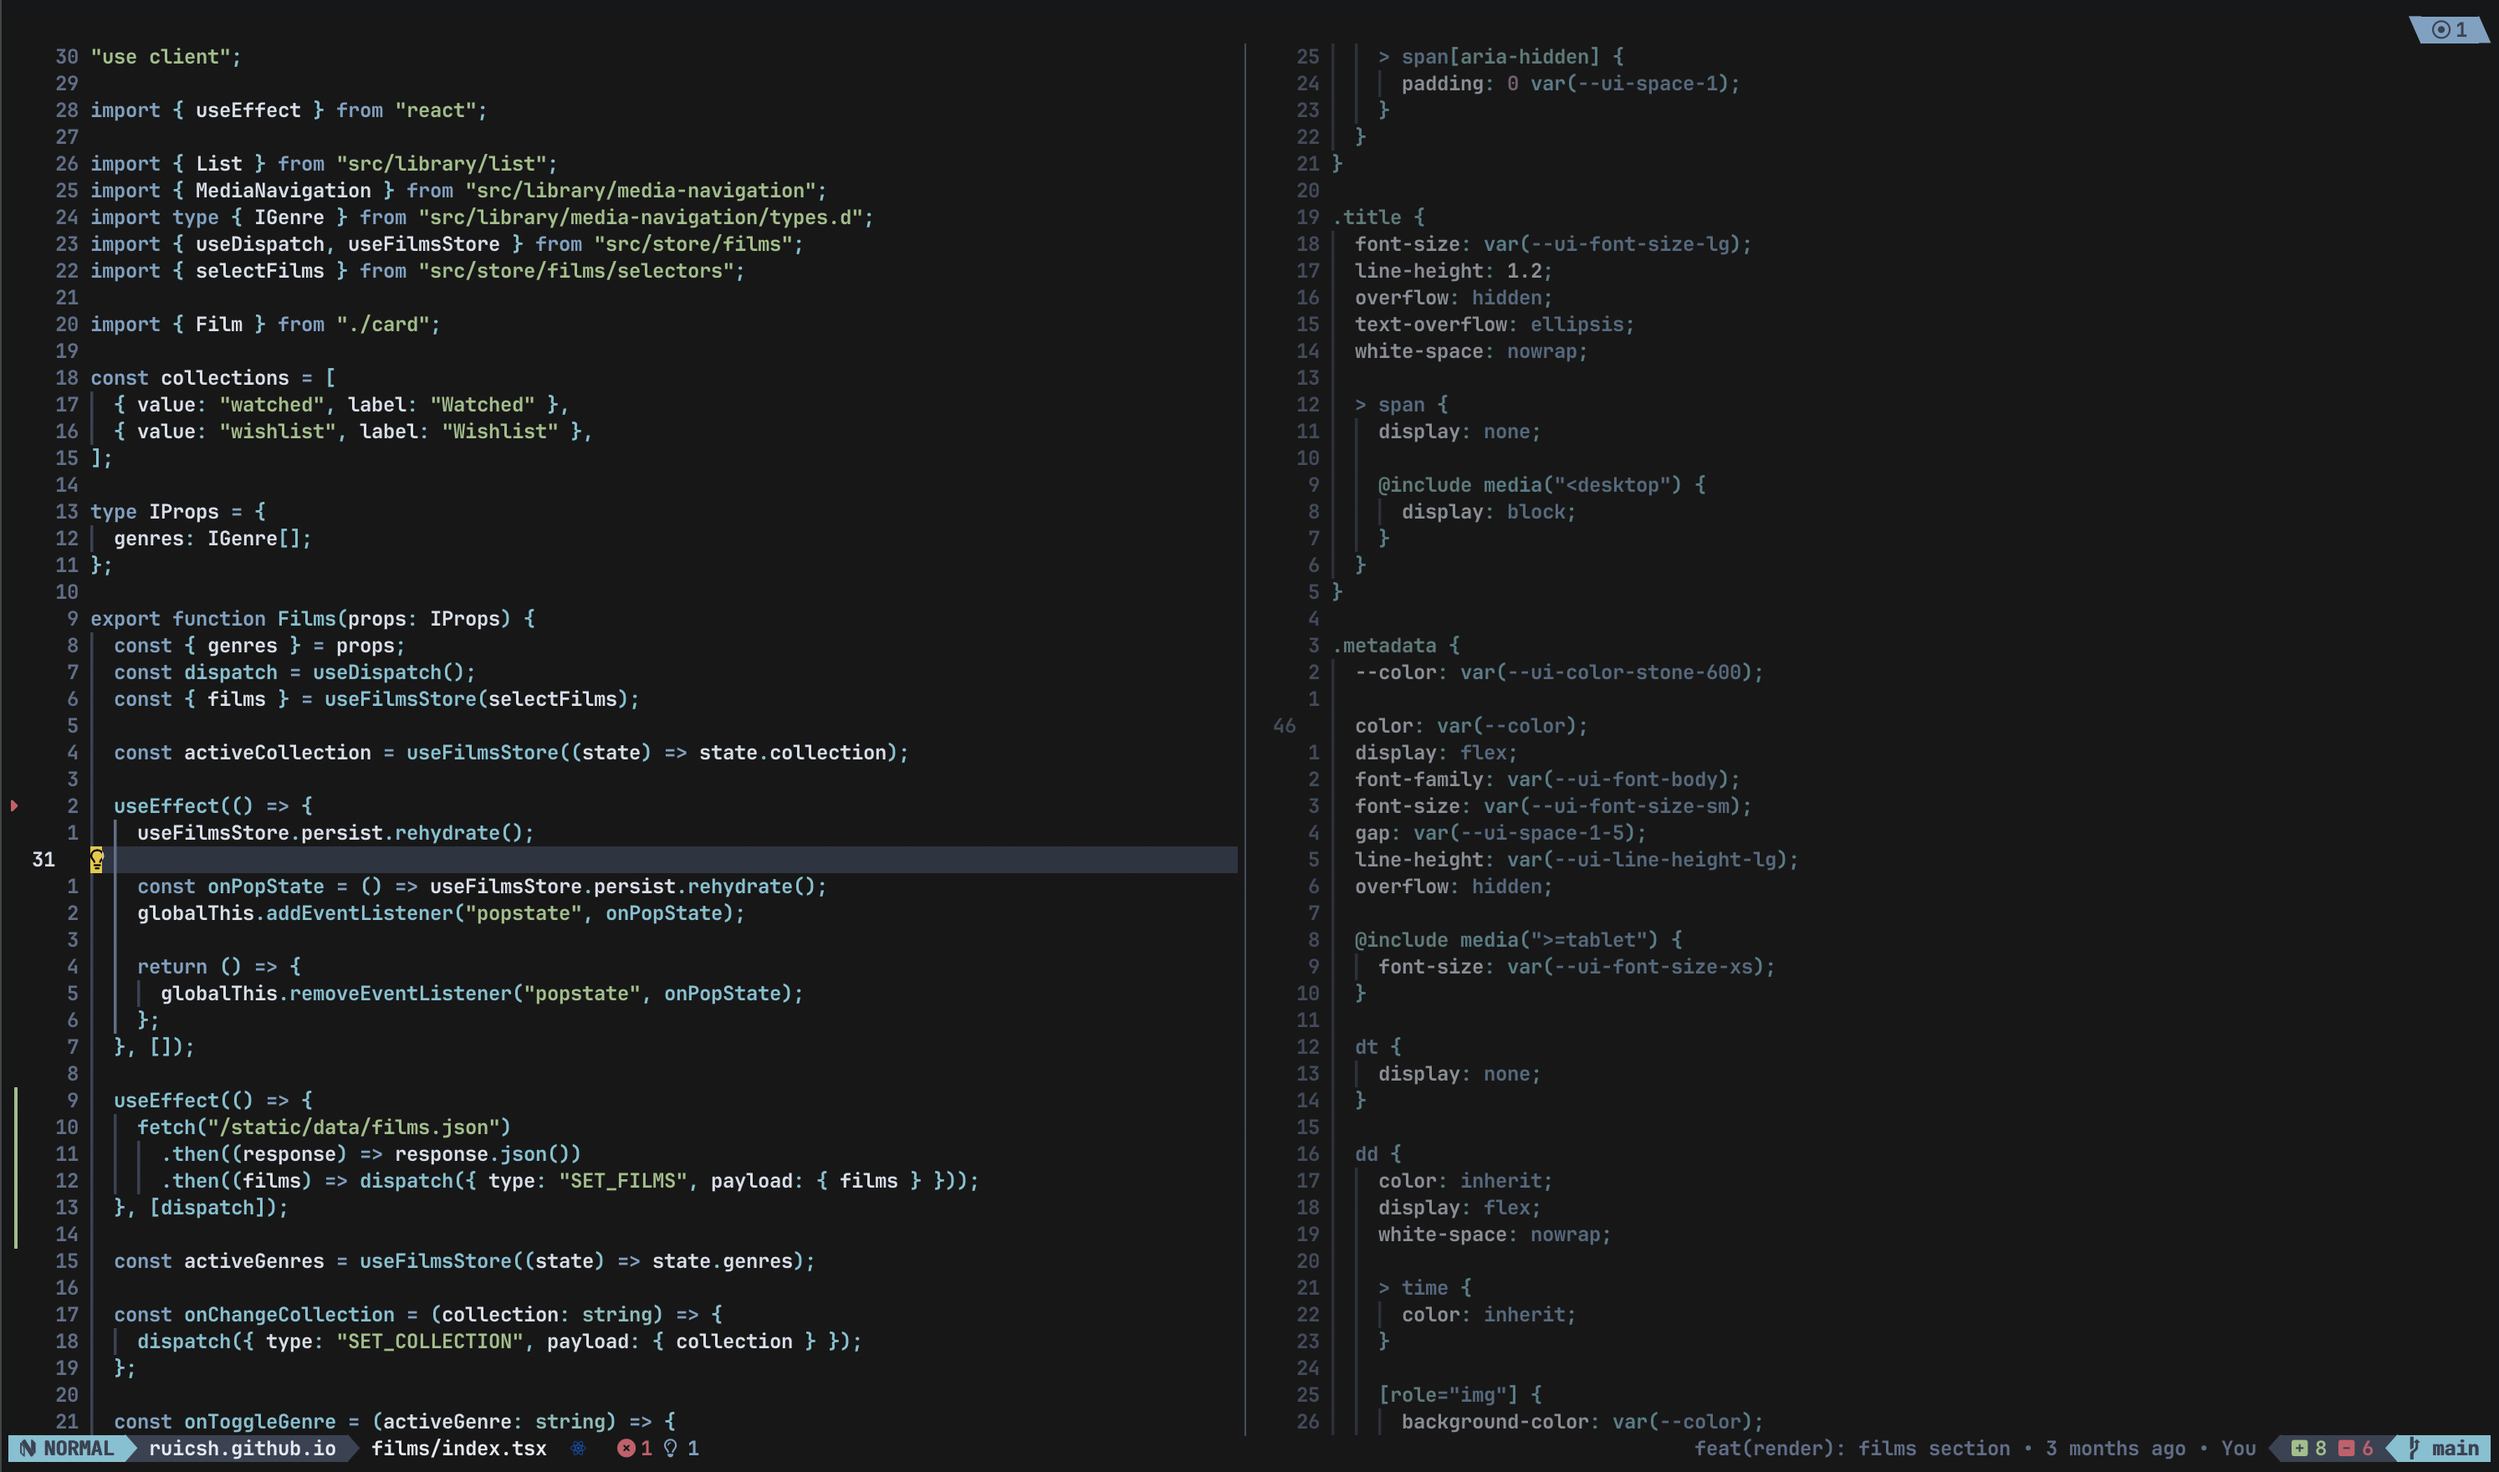
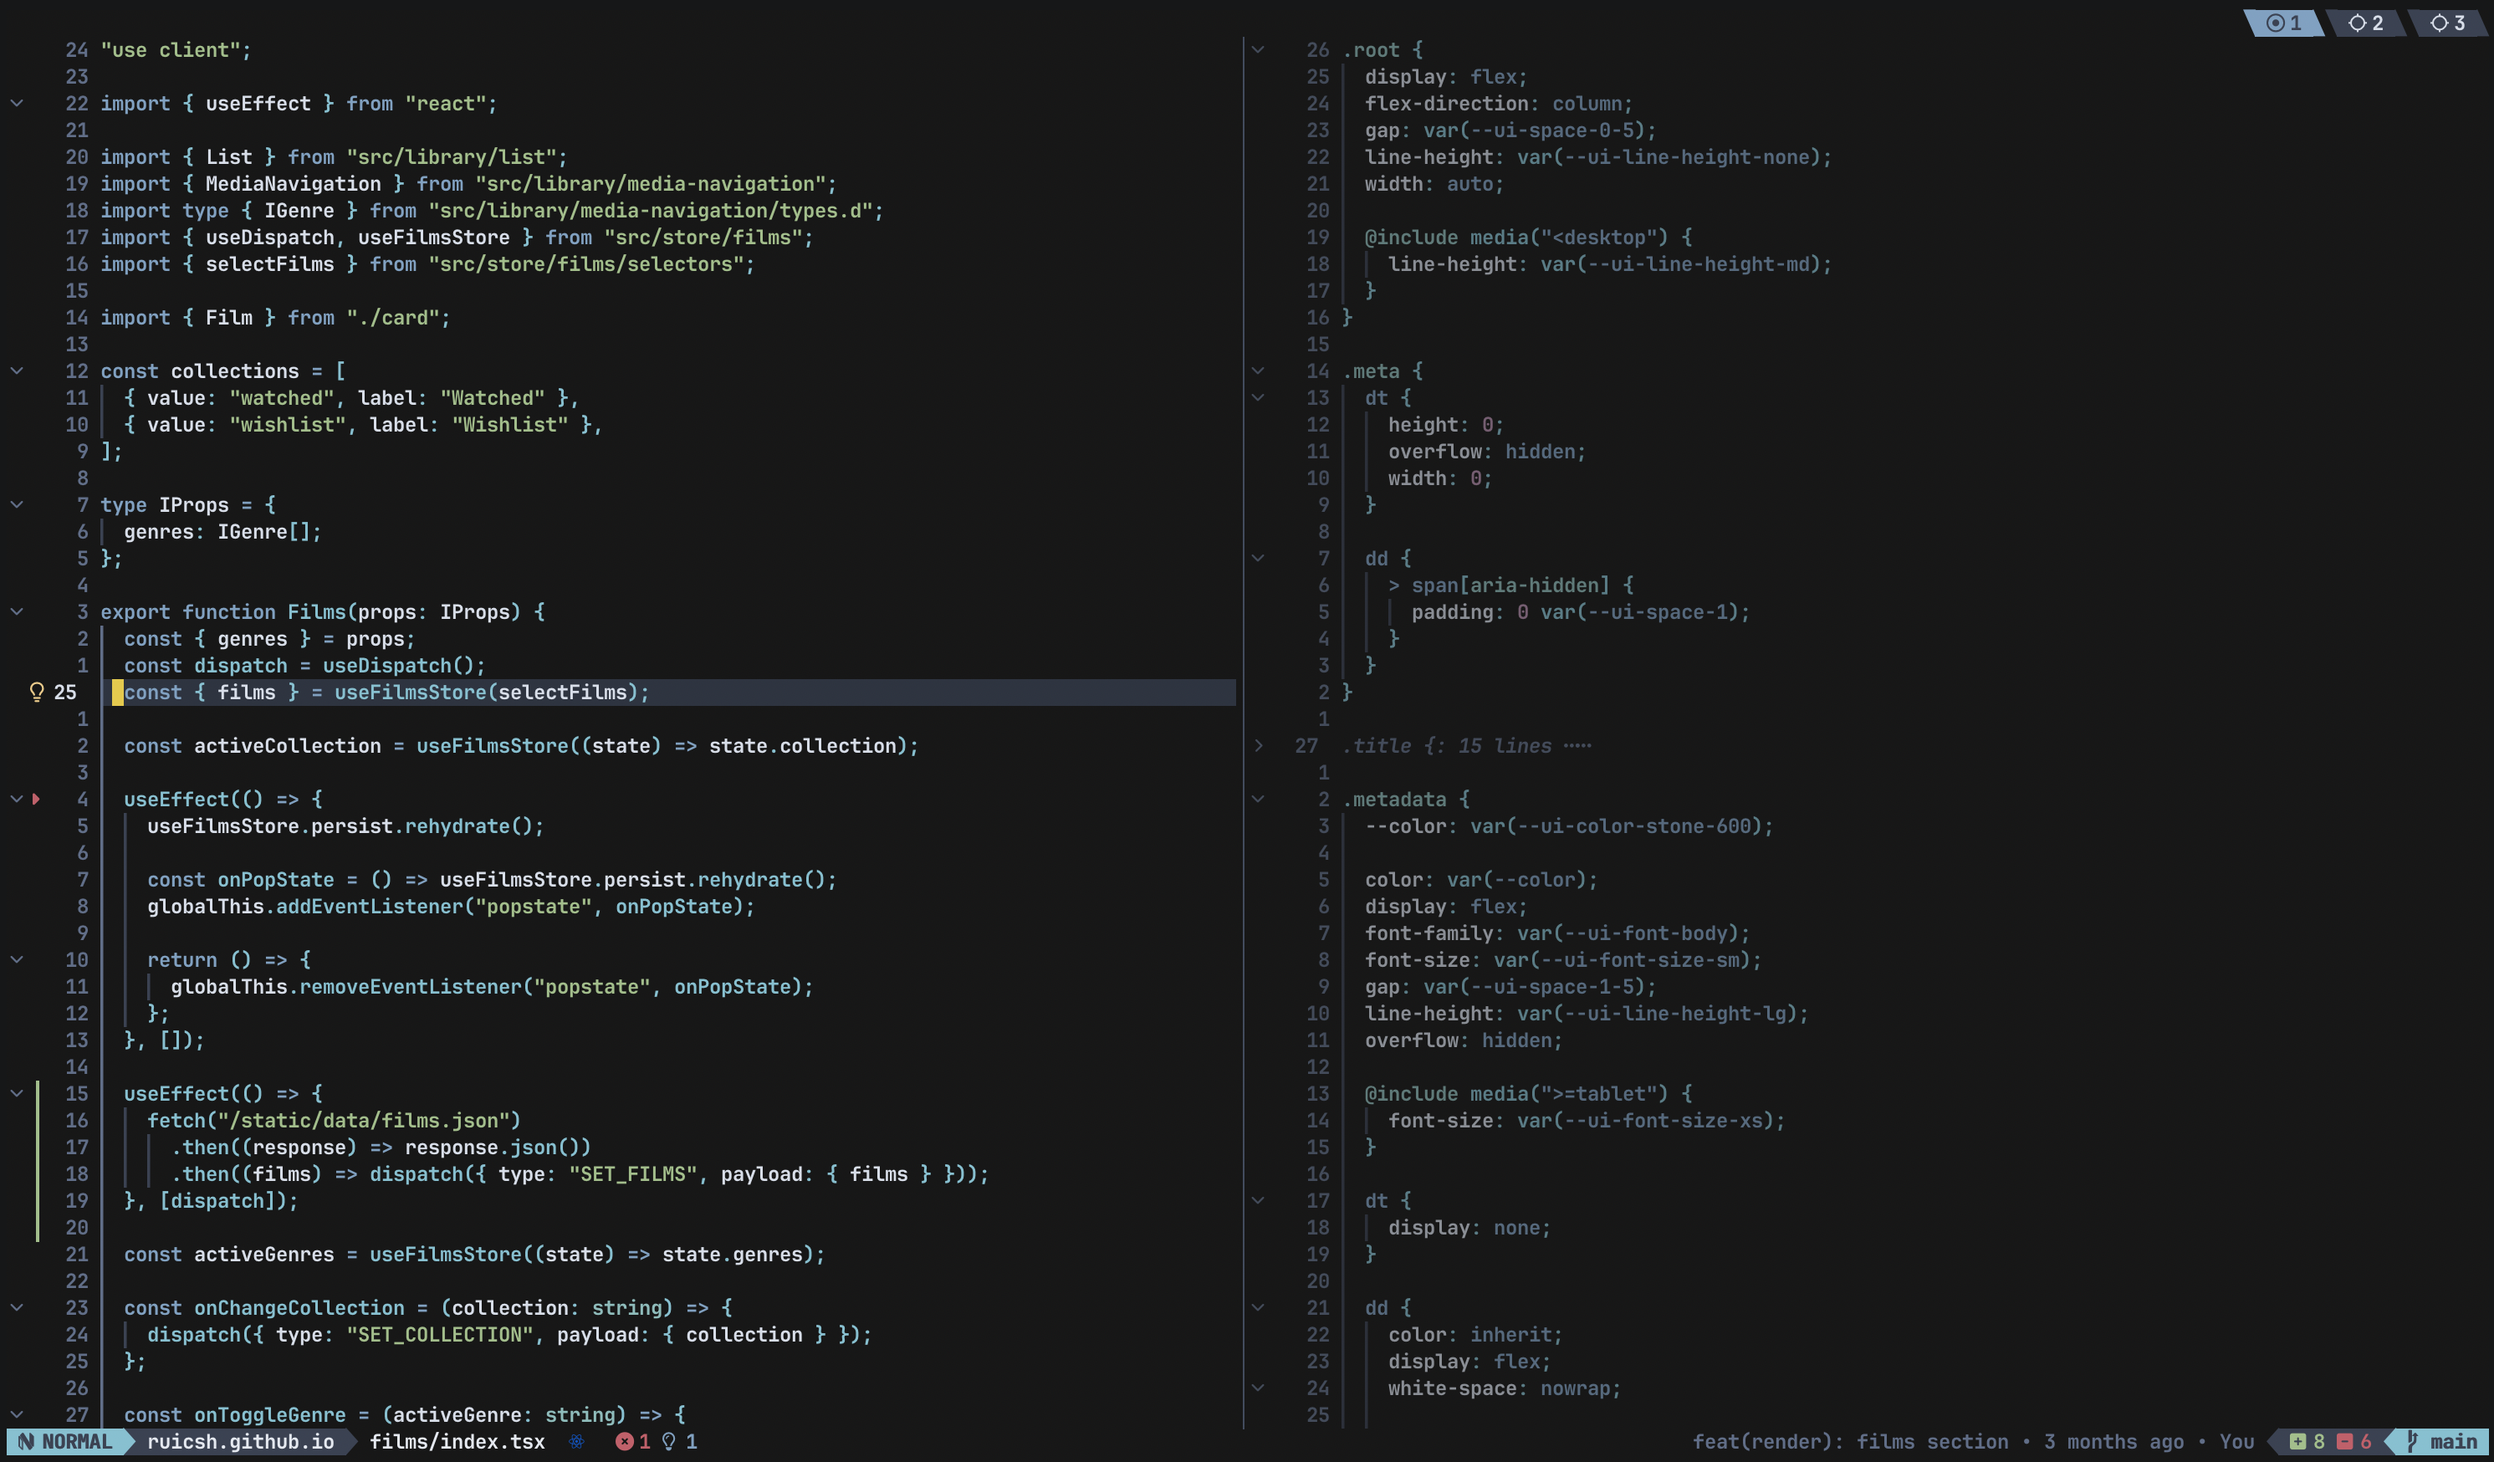
feat(ui): custom fold text, statuscol

diff --git a/readme.md b/readme.md
@@ -2,12 +2,12 @@
 
 This is my configuration for [Neovim](https://neovim.io/), I mostly work on web frontend development.
 
-- **Editor** - enhanced vim motions, extended text objects, mouseless development
+- **Editor** - enhanced vim motions, extended text objects, folding
 - **Code** - formatter, comments, code completion, AI powered suggestions
 - **LSP** - Language Server Protocol client, symbols navigation, diagnostics
 - **Syntax** - highlighting, syntax aware motions and text objects
-- **Debugger** - Debug Adapter Protocol client, breakpoints, stack traces, locals
 - **Git integration** - status, diffview, commit message editor, buffer integration
+- **Debugger** - Debug Adapter Protocol client, breakpoints, stack traces, locals
 - **Search** - fuzzy find anything, file and workspace scoped search and replace
 - **Application** - files and directory explorer, workspaces, notifications, command palette
 
@@ -31,6 +31,7 @@ This is my configuration for [Neovim](https://neovim.io/), I mostly work on web 
 - [lualine.nvim](https://github.com/nvim-lualine/lualine.nvim) - Statusline
 - [nvim-bqf](https://github.com/kevinhwang91/nvim-bqf) - Better quickfix
 - [quicker.nvim](https://github.com/stevearc/quicker.nvim) - Quickfix/location list formatter
+- [statuscol.nvim](https://github.com/luukvbaal/statuscol.nvim) - Status column
 - [toggleterm.nvim](https://github.com/akinsho/toggleterm.nvim) - Manage multiple terminal windows
 - [which-key.nvim](https://github.com/folke/which-key.nvim) - Keybidings helper
 - [workspaces.nvim](https://github.com/natecraddock/workspaces.nvim) - Manage workspace directories
